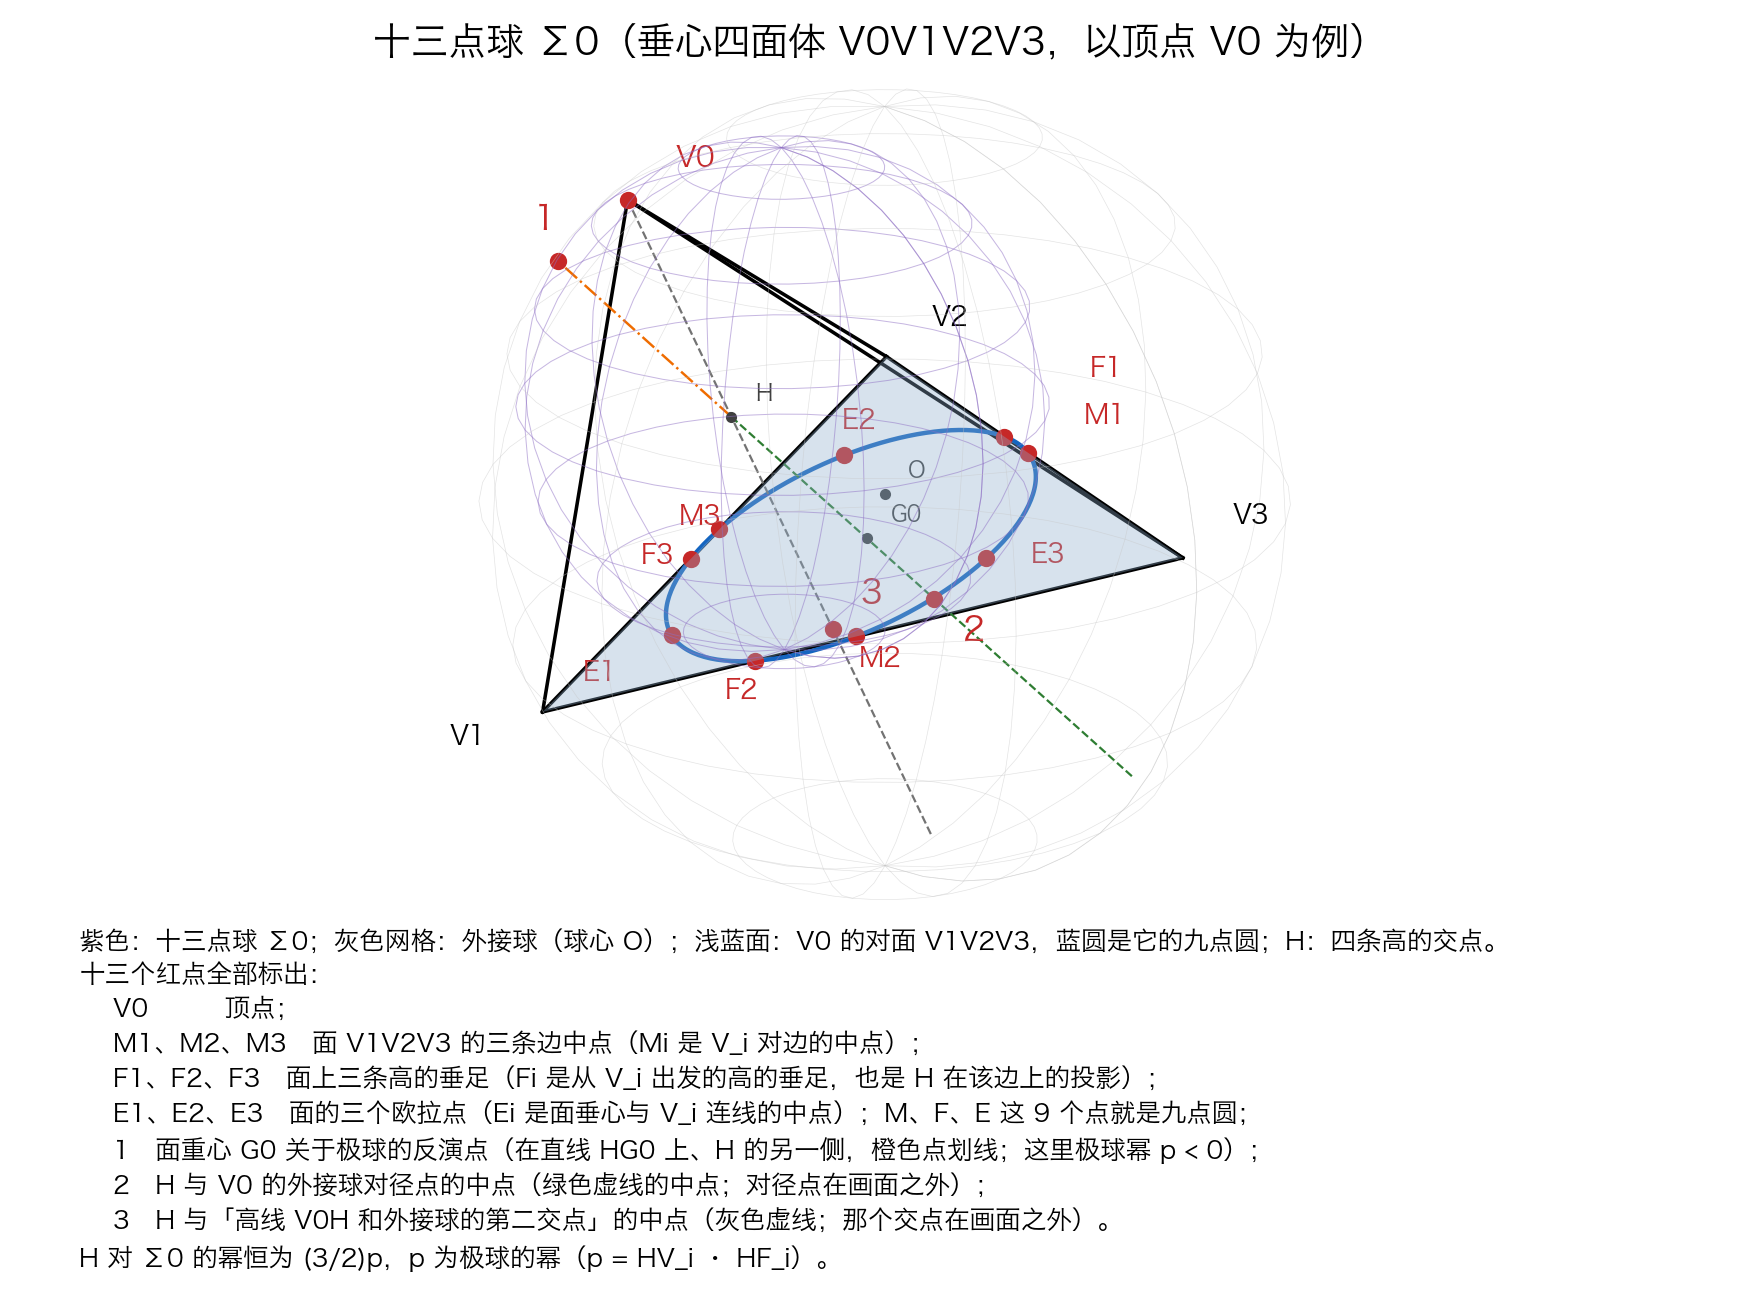
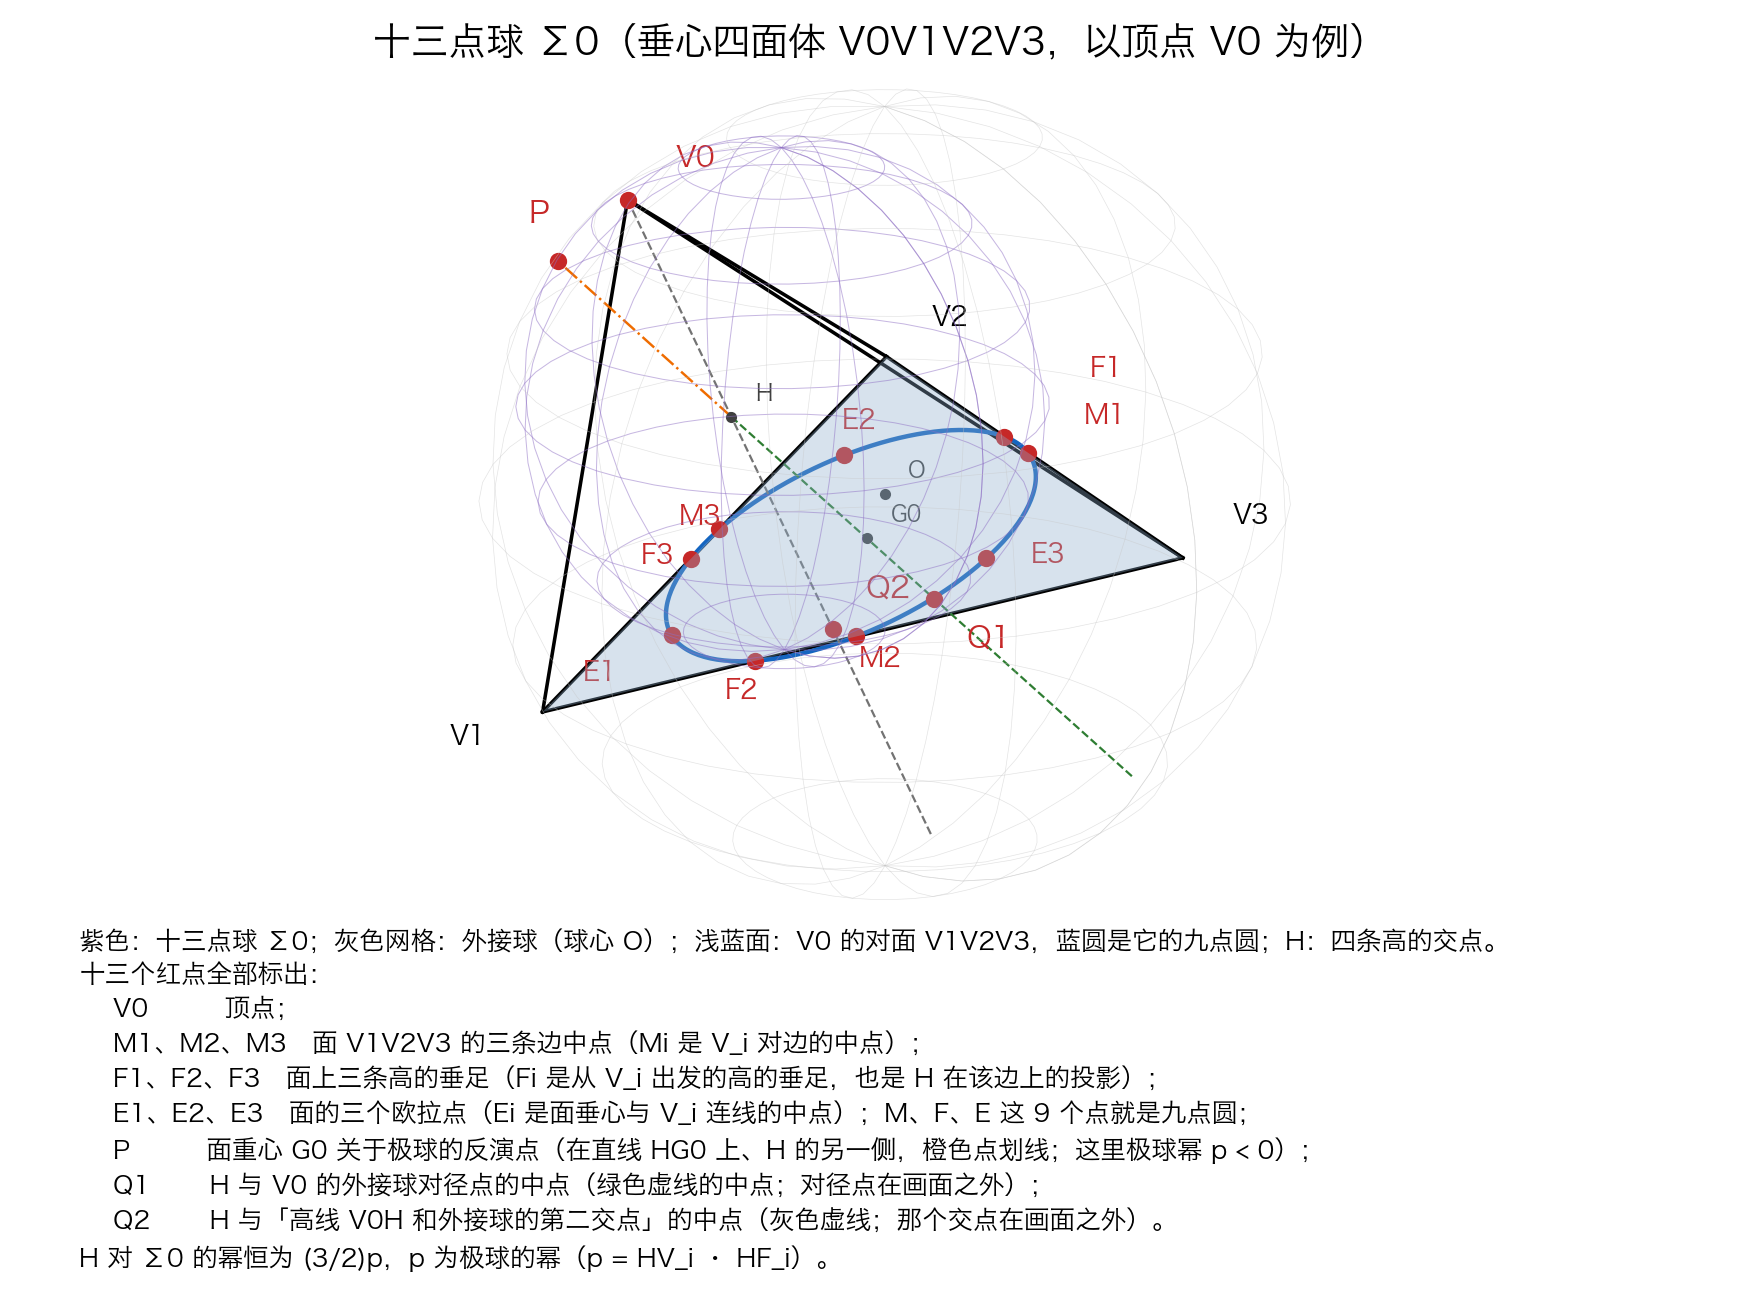
docs: 十三点球多出来的三点改用字母记号 P、Q1、Q2
和七点球那篇一样用字母而不是数字。P = 面重心的极球反演点；Q1、Q2 是 H 与
外接球上两个点（V0 的对径点、高线 V0H 的第二交点）的中点，成对出现。
图和正文、证明里的称呼一并改。

diff --git a/docs/垂心四面体六条定理.md b/docs/垂心四面体六条定理.md
@@ -44,17 +44,17 @@
 | M1、M2、M3 | 对面三条边的中点（M_i 是 V_i 对边的中点） | 3 |
 | F1、F2、F3 | 对面三条高的垂足（F_i 是面内从 V_i 出发的高的垂足；在垂心四面体里它同时就是 <b>H 在这条棱上的投影</b>，也是这条棱与对棱的公垂线垂足） | 3 |
 | E1、E2、E3 | 对面的三个欧拉点（E_i 是面垂心与 V_i 连线的中点） | 3 |
-| 1 | 对面重心的极球反演点 ψ(G_0) | 1 |
-| 2 | H 与「V_0 的外接球对径点」的中点 | 1 |
-| 3 | H 与「高线 V_0H 和外接球的第二交点」的中点 | 1 |
+| P | 对面重心的极球反演点 ψ(G_0)，在直线 HG_0 上 | 1 |
+| Q1 | H 与「V_0 的外接球对径点」的中点 | 1 |
+| Q2 | H 与「高线 V_0H 和外接球的第二交点」的中点 | 1 |
 
-M、F、E 这 9 个点就是对面那个三角形的九点圆；1、2、3 是九点圆之外多出来的三个点。
+M、F、E 这 9 个点就是对面那个三角形的九点圆；P、Q1、Q2 是九点圆之外多出来的三个点。Q1 与 Q2 成对：V_0 的外接球对径点和高线 V_0H 与外接球的第二交点都在外接球上，它们与 H 的中点都落在 Σ_0 上。
 
 而且 H 对 Σ_d 的幂<b>恒等于 (3/2)p</b>，与四面体的形状无关。四个顶点各给出一个这样的球。
 
 <img src="../pics/13_point_sphere/thirteen_point_sphere.png" alt="十三点球 Σ0：垂心四面体 V0V1V2V3，以顶点 V0 为例" width="900">
 
-图：以 V0 为例的十三点球 Σ0（紫色线框）。灰色网格是外接球（球心 O），浅蓝面是 V0 的对面 V1V2V3，蓝色圆是它的九点圆——<b>Σ0 与这个面的交线正好就是九点圆</b>，所以圆上的 9 个点 M1–M3、F1–F3、E1–E3 全在球上。三条辅助线对应多出来的三个点：橙色点划线是 H 与面重心 G0 的连线（极球幂 p < 0，所以反演点 1 落在 H 的另一侧）；绿色虚线连 H 与 V0 的外接球对径点，中点是 2；灰色虚线是高线 V0H，它与外接球的第二个交点和 H 的中点是 3（这两个远点在画面之外）。
+图：以 V0 为例的十三点球 Σ0（紫色线框）。灰色网格是外接球（球心 O），浅蓝面是 V0 的对面 V1V2V3，蓝色圆是它的九点圆——<b>Σ0 与这个面的交线正好就是九点圆</b>，所以圆上的 9 个点 M1–M3、F1–F3、E1–E3 全在球上。三条辅助线对应多出来的三个点：橙色点划线是 H 与面重心 G0 的连线（极球幂 p < 0，所以反演点 P 落在 H 的另一侧）；绿色虚线连 H 与 V0 的外接球对径点，中点是 Q1；灰色虚线是高线 V0H，它与外接球的第二个交点和 H 的中点是 Q2（这两个远点在画面之外）。
 
 先要说明 Σ_d 是良定义的：过一个圆的球构成一族（球束），其中过圆外一点 V_d 的恰有一个。九点圆在面 d 所在的平面上，而 V_d 不在这个平面上，所以 Σ_d 存在且唯一。
 
@@ -94,7 +94,7 @@ M、F、E 这 9 个点就是对面那个三角形的九点圆；1、2、3 是九
 
 球心 c 由 u_0, …, u_3 唯一确定（v_i 张成三维空间），所以 Σ_d 的方程已经完全写出来了。
 
-<b>第五步：其余各点。</b>　三条边中点已经定出了面 d 上的九点圆——球与面 d 所在平面的交线是一个圆，它过这三个中点，而过三点的圆唯一，所以这个交圆就是面 d 的九点圆，九点圆上的点（三条高的垂足、三个欧拉点）因此全部自动在球上。剩下的三个点（ψ(G_d)、两个中点）把坐标代入球方程，用上面的 u_i 和 Σ 1/a_i = −1/p 化简，都恒为 0。
+<b>第五步：其余各点。</b>　三条边中点已经定出了面 d 上的九点圆——球与面 d 所在平面的交线是一个圆，它过这三个中点，而过三点的圆唯一，所以这个交圆就是面 d 的九点圆，九点圆上的点（三条高的垂足、三个欧拉点）因此全部自动在球上。剩下的三个点（P = ψ(G_d)，以及两个中点 Q1、Q2）把坐标代入球方程，用上面的 u_i 和 Σ 1/a_i = −1/p 化简，都恒为 0。
 
 符号计算的代码是 `proof_sph8.py`，13 个点逐项化简为 0。∎
 
